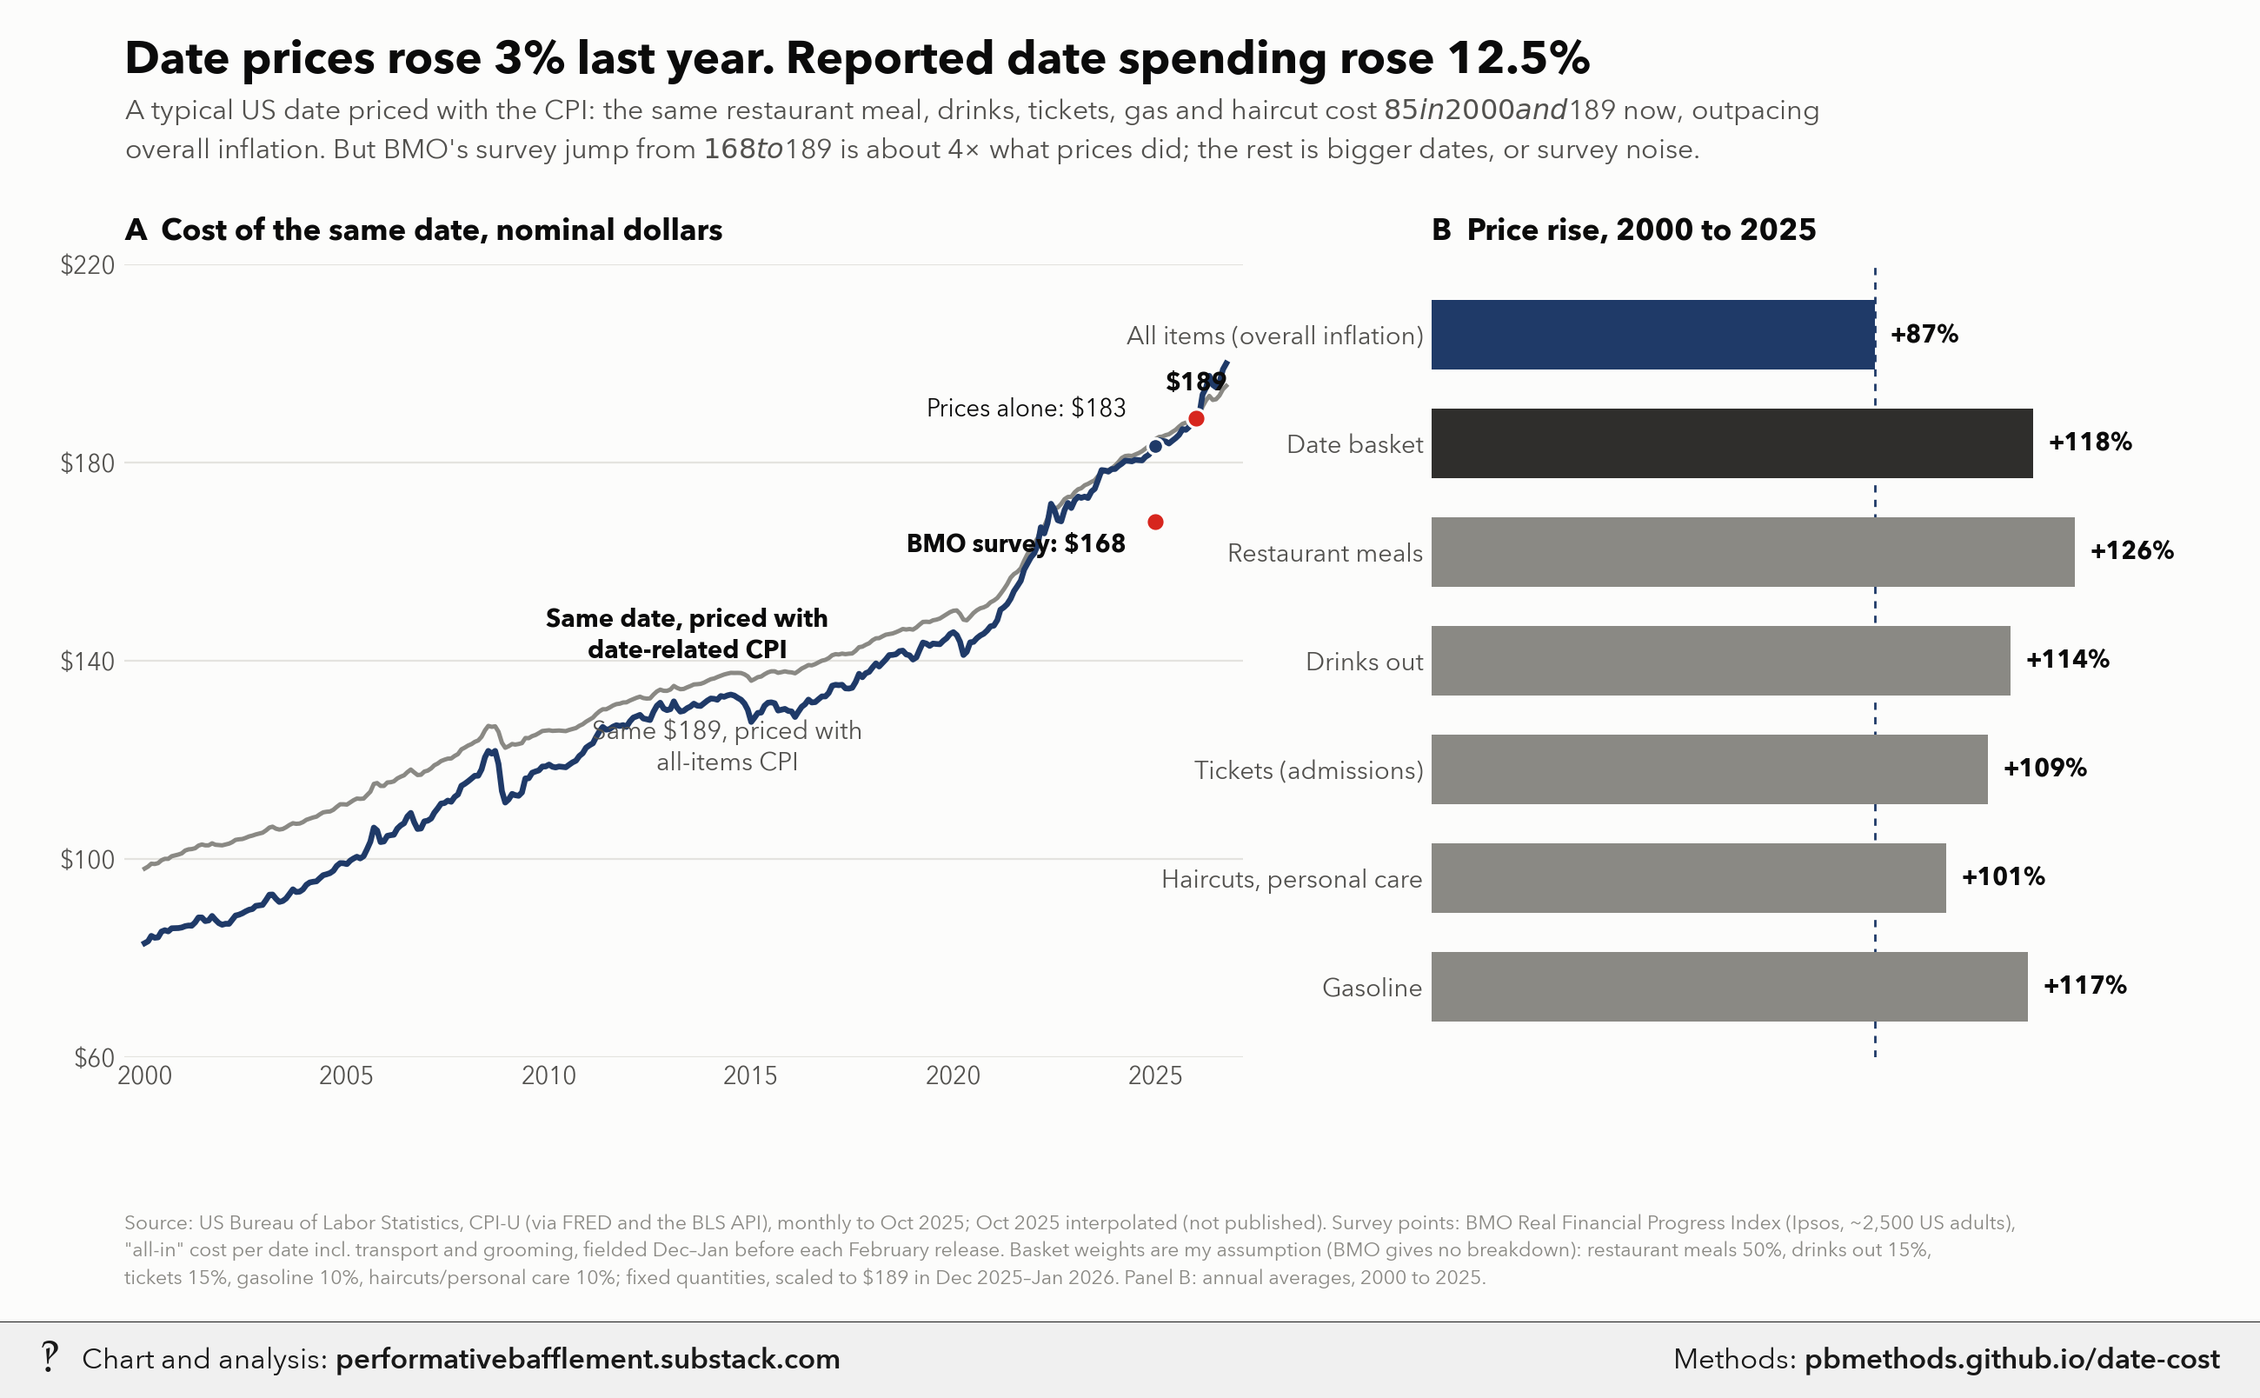
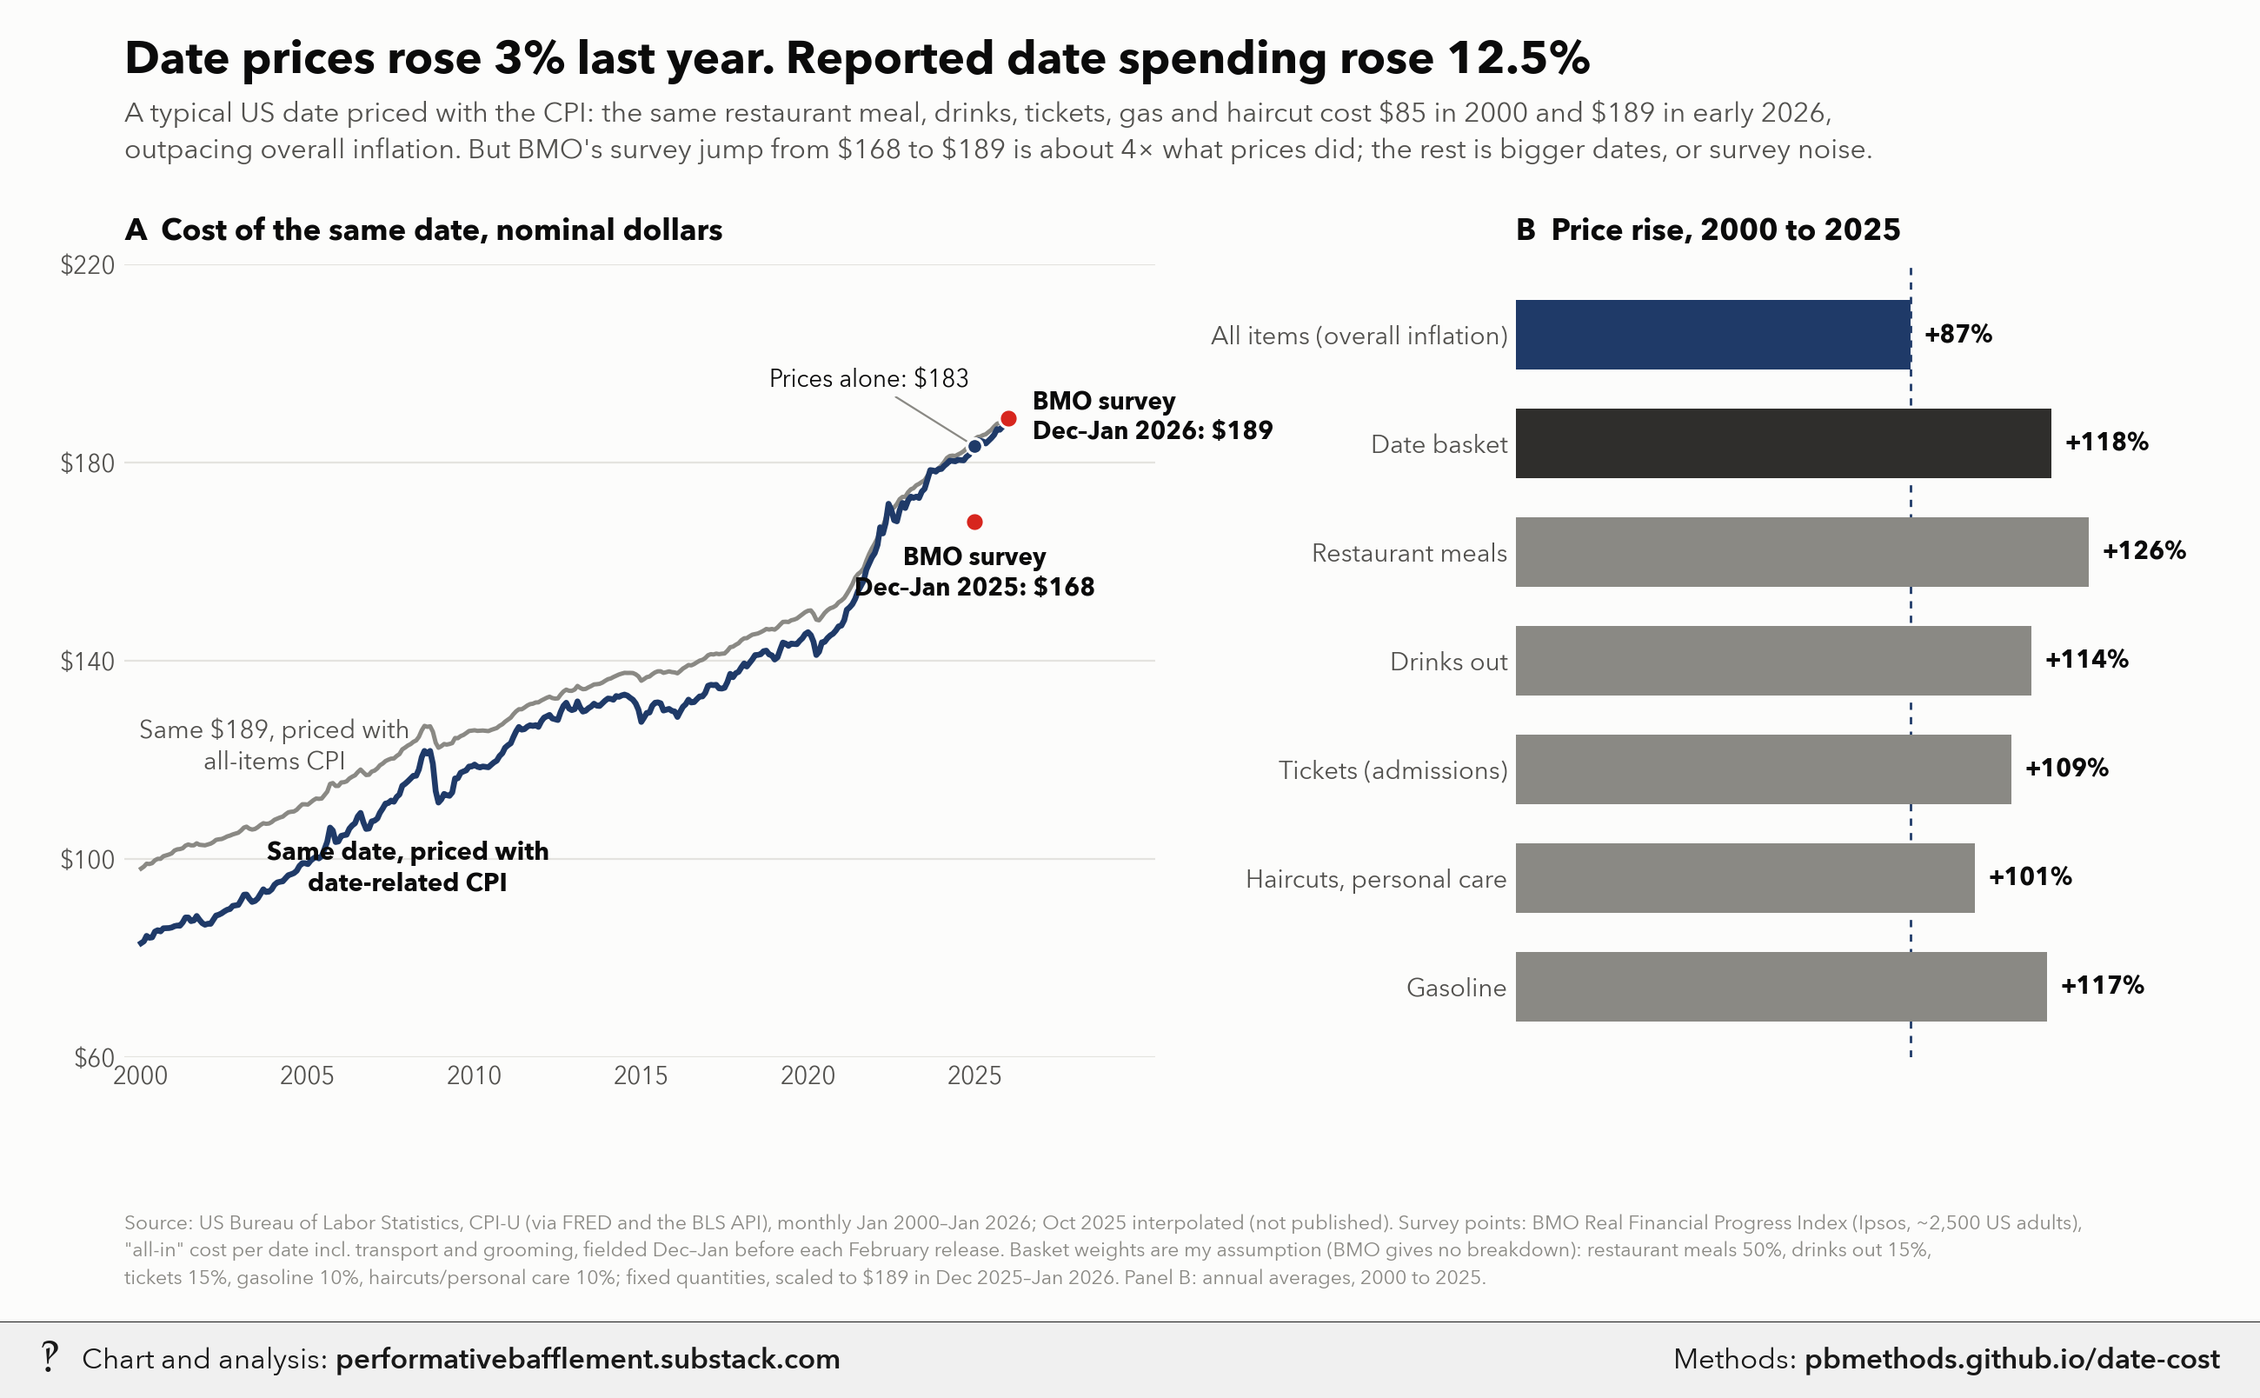
Update date-cost

diff --git a/date-cost/index.html b/date-cost/index.html
@@ -47,6 +47,7 @@ Data (CPI-U, US city average, monthly; local copies under notebooks/us_public_da
   - Personal care services (haircuts etc.)  CUUR0000SEGC (FRED, not seasonally adjusted)  weight 10%
   - All items                     CPIAUCSL      (FRED, seasonally adjusted)   comparison line
   BLS published no October 2025 CPI (federal shutdown); that month is linearly interpolated.
+  The lines run Jan 2000 to Jan 2026, ending at BMO's latest field period.
 
 Method:
   - Fixed-quantity (Laspeyres) basket. The weights are spending shares at BMO's 2026 field period (mean of Dec 2025
@@ -160,6 +161,7 @@ Data (CPI-U, US city average, monthly; local copies under notebooks/us_public_da
   - Personal care services (haircuts etc.)  CUUR0000SEGC (FRED, not seasonally adjusted)  weight 10%
   - All items                     CPIAUCSL      (FRED, seasonally adjusted)   comparison line
   BLS published no October 2025 CPI (federal shutdown); that month is linearly interpolated.
+  The lines run Jan 2000 to Jan 2026, ending at BMO's latest field period.
 
 Method:
   - Fixed-quantity (Laspeyres) basket. The weights are spending shares at BMO's 2026 field period (mean of Dec 2025
@@ -195,6 +197,7 @@ sys.path.insert(0, str(Path.home() / &quot;_watermark&quot;))
 import pb_style as pb  # noqa: E402
 
 pb.apply()
+plt.rcParams[&quot;text.parse_math&quot;] = False  # dollar signs are literal
 INK, INK2, MUTED = pb.INK, pb.INK2, pb.MUTED
 
 SERIES = {  # key: (file, label, weight)
@@ -208,10 +211,10 @@ ALL = &quot;fred/CPIAUCSL.csv&quot;
 BMO_2025, BMO_2026 = 168, 189
 W25 = (&quot;2024-12-01&quot;, &quot;2025-01-01&quot;)  # BMO 2025 field period, Dec 23 2024 - Jan 20 2025
 W26 = (&quot;2025-12-01&quot;, &quot;2026-01-01&quot;)  # BMO 2026 field period, Dec 29 2025 - Jan 27 2026
-START = &quot;2000-01-01&quot;
+START, END = &quot;2000-01-01&quot;, &quot;2026-01-01&quot;  # end at BMO's 2026 field period
 
 FOOTNOTE = (
-    &quot;Source: US Bureau of Labor Statistics, CPI-U (via FRED and the BLS API), monthly to Oct 2025; Oct 2025 interpolated &quot;
+    &quot;Source: US Bureau of Labor Statistics, CPI-U (via FRED and the BLS API), monthly Jan 2000–Jan 2026; Oct 2025 interpolated &quot;
     &quot;(not published). Survey points: BMO Real Financial Progress Index (Ipsos, ~2,500 US adults),\n\&quot;all-in\&quot; cost per &quot;
     &quot;date incl. transport and grooming, fielded Dec–Jan before each February release. Basket weights are my assumption &quot;
     &quot;(BMO gives no breakdown): restaurant meals 50%, drinks out 15%,\ntickets 15%, gasoline 10%, haircuts/personal care &quot;
@@ -226,7 +229,7 @@ def load(rel):
 
 def build():
     d = pd.concat({k: load(v[0]) for k, v in SERIES.items()} | {&quot;all&quot;: load(ALL)}, axis=1)
-    d = d[START:].dropna(how=&quot;all&quot;)
+    d = d[START:END].dropna(how=&quot;all&quot;)
     full = pd.date_range(d.index.min(), d.index.max(), freq=&quot;MS&quot;)
     d = d.reindex(full).interpolate(limit_area=&quot;inside&quot;).dropna()
     base = d.loc[W26[0]:W26[1]].mean()
@@ -253,37 +256,40 @@ def main():
     print(growth.round(1))
 
     fig = plt.figure(figsize=(13, 7.6))
-    gs = fig.add_gridspec(1, 2, left=0.055, right=0.975, top=0.80, bottom=0.2, wspace=0.2, width_ratios=[1.45, 1])
+    gs = fig.add_gridspec(1, 2, left=0.055, right=0.975, top=0.80, bottom=0.2, wspace=0.42, width_ratios=[1.5, 1])
     a, c = fig.add_subplot(gs[0]), fig.add_subplot(gs[1])
 
     fig.text(0.055, 0.945, f&quot;Date prices rose {price_chg:.0%} last year. Reported date spending rose {bmo_chg:.1%}&quot;,
              fontsize=19, fontweight=&quot;bold&quot;, ha=&quot;left&quot;)
     fig.text(0.055, 0.88, f&quot;A typical US date priced with the CPI: the same restaurant meal, drinks, tickets, gas and &quot;
-             f&quot;haircut cost ${b2000:.0f} in 2000 and ${BMO_2026} now, outpacing\noverall inflation. But BMO's survey &quot;
+             f&quot;haircut cost ${b2000:.0f} in 2000 and ${BMO_2026} in early 2026,\noutpacing overall inflation. But BMO's survey &quot;
              f&quot;jump from ${BMO_2025} to ${BMO_2026} is about {bmo_chg / price_chg:.0f}× what prices did; the rest is &quot;
              f&quot;bigger dates, or survey noise.&quot;, fontsize=11.5, color=INK2, ha=&quot;left&quot;, linespacing=1.4)
 
     # A: basket over time vs all-items, with BMO points
     a.plot(allitems.index, allitems, color=pb.GRAYS[0], lw=1.8, zorder=2)
     a.plot(basket.index, basket, color=pb.NAVY, lw=2.4, zorder=3)
-    a.text(pd.Timestamp(&quot;2013-06-01&quot;), basket.loc[&quot;2013-06-01&quot;] + 9, &quot;Same date, priced with\ndate-related CPI&quot;,
-           fontsize=10.5, fontweight=&quot;bold&quot;, color=INK, ha=&quot;center&quot;, va=&quot;bottom&quot;, linespacing=1.3)
-    a.text(pd.Timestamp(&quot;2014-06-01&quot;), allitems.loc[&quot;2014-06-01&quot;] - 9, &quot;Same $189, priced with\nall-items CPI&quot;,
-           fontsize=10.5, color=INK2, ha=&quot;center&quot;, va=&quot;top&quot;, linespacing=1.3)
+    a.text(pd.Timestamp(&quot;2008-01-01&quot;), basket.loc[&quot;2008-01-01&quot;] - 12, &quot;Same date, priced with\ndate-related CPI&quot;,
+           fontsize=10.5, fontweight=&quot;bold&quot;, color=INK, ha=&quot;center&quot;, va=&quot;top&quot;, linespacing=1.3)
+    a.text(pd.Timestamp(&quot;2004-01-01&quot;), allitems.loc[&quot;2004-01-01&quot;] + 9, &quot;Same $189, priced with\nall-items CPI&quot;,
+           fontsize=10.5, color=INK2, ha=&quot;center&quot;, va=&quot;bottom&quot;, linespacing=1.3)
     t25, t26 = pd.Timestamp(&quot;2025-01-01&quot;), pd.Timestamp(&quot;2026-01-01&quot;)
     a.scatter([t25], [implied25], s=42, color=pb.NAVY, edgecolor=pb.SURFACE, lw=1.2, zorder=5)
     a.scatter([t25, t26], [BMO_2025, BMO_2026], s=60, color=pb.RED, edgecolor=pb.SURFACE, lw=1.2, zorder=6)
-    a.annotate(f&quot;Prices alone: ${implied25:.0f}&quot;, (t25, implied25), xytext=(-12, 10), textcoords=&quot;offset points&quot;,
-               ha=&quot;right&quot;, va=&quot;bottom&quot;, fontsize=10, color=INK)
-    a.annotate(f&quot;BMO survey: ${BMO_2025}&quot;, (t25, BMO_2025), xytext=(-12, -4), textcoords=&quot;offset points&quot;,
-               ha=&quot;right&quot;, va=&quot;top&quot;, fontsize=10, fontweight=&quot;bold&quot;, color=INK)
-    a.annotate(f&quot;${BMO_2026}&quot;, (t26, BMO_2026), xytext=(0, 9), textcoords=&quot;offset points&quot;,
-               ha=&quot;center&quot;, va=&quot;bottom&quot;, fontsize=10, fontweight=&quot;bold&quot;, color=INK)
-    a.set_xlim(pd.Timestamp(&quot;1999-07-01&quot;), pd.Timestamp(&quot;2027-03-01&quot;))
+    box = dict(boxstyle=&quot;square,pad=0.15&quot;, fc=pb.SURFACE, ec=&quot;none&quot;)
+    a.annotate(f&quot;Prices alone: ${implied25:.0f}&quot;, (t25, implied25), xytext=(-2, 22), textcoords=&quot;offset points&quot;,
+               ha=&quot;right&quot;, va=&quot;bottom&quot;, fontsize=10, color=INK, bbox=box,
+               arrowprops=dict(arrowstyle=&quot;-&quot;, color=MUTED, lw=0.8, shrinkA=0, shrinkB=4))
+    a.annotate(f&quot;BMO survey\nDec–Jan 2025: ${BMO_2025}&quot;, (t25, BMO_2025), xytext=(0, -10), textcoords=&quot;offset points&quot;,
+               ha=&quot;center&quot;, va=&quot;top&quot;, fontsize=10, fontweight=&quot;bold&quot;, color=INK, linespacing=1.25)
+    a.annotate(f&quot;BMO survey\nDec–Jan 2026: ${BMO_2026}&quot;, (t26, BMO_2026), xytext=(10, 0), textcoords=&quot;offset points&quot;,
+               ha=&quot;left&quot;, va=&quot;center&quot;, fontsize=10, fontweight=&quot;bold&quot;, color=INK, linespacing=1.25)
+    a.set_xlim(pd.Timestamp(&quot;1999-07-01&quot;), pd.Timestamp(&quot;2030-06-01&quot;))
+    a.spines[&quot;bottom&quot;].set_bounds(mdates.date2num(pd.Timestamp(&quot;1999-07-01&quot;)), mdates.date2num(t26))
     a.set_ylim(60, 220)
     a.set_yticks(range(60, 221, 40))
     a.set_yticklabels([f&quot;${v}&quot; for v in range(60, 221, 40)])
-    a.xaxis.set_major_locator(mdates.YearLocator(5))
+    a.set_xticks([pd.Timestamp(f&quot;{y}-01-01&quot;) for y in range(2000, 2026, 5)])
     a.xaxis.set_major_formatter(mdates.DateFormatter(&quot;%Y&quot;))
     a.set_title(&quot;A  Cost of the same date, nominal dollars&quot;, loc=&quot;left&quot;, fontsize=12.5, fontweight=&quot;bold&quot;, pad=10)
     a.grid(axis=&quot;x&quot;, visible=False)

diff --git a/date-cost/methods.md b/date-cost/methods.md
@@ -29,6 +29,7 @@ Data (CPI-U, US city average, monthly; local copies under notebooks/us_public_da
   - Personal care services (haircuts etc.)  CUUR0000SEGC (FRED, not seasonally adjusted)  weight 10%
   - All items                     CPIAUCSL      (FRED, seasonally adjusted)   comparison line
   BLS published no October 2025 CPI (federal shutdown); that month is linearly interpolated.
+  The lines run Jan 2000 to Jan 2026, ending at BMO's latest field period.
 
 Method:
   - Fixed-quantity (Laspeyres) basket. The weights are spending shares at BMO's 2026 field period (mean of Dec 2025
@@ -117,6 +118,7 @@ Data (CPI-U, US city average, monthly; local copies under notebooks/us_public_da
   - Personal care services (haircuts etc.)  CUUR0000SEGC (FRED, not seasonally adjusted)  weight 10%
   - All items                     CPIAUCSL      (FRED, seasonally adjusted)   comparison line
   BLS published no October 2025 CPI (federal shutdown); that month is linearly interpolated.
+  The lines run Jan 2000 to Jan 2026, ending at BMO's latest field period.
 
 Method:
   - Fixed-quantity (Laspeyres) basket. The weights are spending shares at BMO's 2026 field period (mean of Dec 2025
@@ -152,6 +154,7 @@ sys.path.insert(0, str(Path.home() / "_watermark"))
 import pb_style as pb  # noqa: E402
 
 pb.apply()
+plt.rcParams["text.parse_math"] = False  # dollar signs are literal
 INK, INK2, MUTED = pb.INK, pb.INK2, pb.MUTED
 
 SERIES = {  # key: (file, label, weight)
@@ -165,10 +168,10 @@ ALL = "fred/CPIAUCSL.csv"
 BMO_2025, BMO_2026 = 168, 189
 W25 = ("2024-12-01", "2025-01-01")  # BMO 2025 field period, Dec 23 2024 - Jan 20 2025
 W26 = ("2025-12-01", "2026-01-01")  # BMO 2026 field period, Dec 29 2025 - Jan 27 2026
-START = "2000-01-01"
+START, END = "2000-01-01", "2026-01-01"  # end at BMO's 2026 field period
 
 FOOTNOTE = (
-    "Source: US Bureau of Labor Statistics, CPI-U (via FRED and the BLS API), monthly to Oct 2025; Oct 2025 interpolated "
+    "Source: US Bureau of Labor Statistics, CPI-U (via FRED and the BLS API), monthly Jan 2000–Jan 2026; Oct 2025 interpolated "
     "(not published). Survey points: BMO Real Financial Progress Index (Ipsos, ~2,500 US adults),\n\"all-in\" cost per "
     "date incl. transport and grooming, fielded Dec–Jan before each February release. Basket weights are my assumption "
     "(BMO gives no breakdown): restaurant meals 50%, drinks out 15%,\ntickets 15%, gasoline 10%, haircuts/personal care "
@@ -183,7 +186,7 @@ def load(rel):
 
 def build():
     d = pd.concat({k: load(v[0]) for k, v in SERIES.items()} | {"all": load(ALL)}, axis=1)
-    d = d[START:].dropna(how="all")
+    d = d[START:END].dropna(how="all")
     full = pd.date_range(d.index.min(), d.index.max(), freq="MS")
     d = d.reindex(full).interpolate(limit_area="inside").dropna()
     base = d.loc[W26[0]:W26[1]].mean()
@@ -210,37 +213,40 @@ def main():
     print(growth.round(1))
 
     fig = plt.figure(figsize=(13, 7.6))
-    gs = fig.add_gridspec(1, 2, left=0.055, right=0.975, top=0.80, bottom=0.2, wspace=0.2, width_ratios=[1.45, 1])
+    gs = fig.add_gridspec(1, 2, left=0.055, right=0.975, top=0.80, bottom=0.2, wspace=0.42, width_ratios=[1.5, 1])
     a, c = fig.add_subplot(gs[0]), fig.add_subplot(gs[1])
 
     fig.text(0.055, 0.945, f"Date prices rose {price_chg:.0%} last year. Reported date spending rose {bmo_chg:.1%}",
              fontsize=19, fontweight="bold", ha="left")
     fig.text(0.055, 0.88, f"A typical US date priced with the CPI: the same restaurant meal, drinks, tickets, gas and "
-             f"haircut cost ${b2000:.0f} in 2000 and ${BMO_2026} now, outpacing\noverall inflation. But BMO's survey "
+             f"haircut cost ${b2000:.0f} in 2000 and ${BMO_2026} in early 2026,\noutpacing overall inflation. But BMO's survey "
              f"jump from ${BMO_2025} to ${BMO_2026} is about {bmo_chg / price_chg:.0f}× what prices did; the rest is "
              f"bigger dates, or survey noise.", fontsize=11.5, color=INK2, ha="left", linespacing=1.4)
 
     # A: basket over time vs all-items, with BMO points
     a.plot(allitems.index, allitems, color=pb.GRAYS[0], lw=1.8, zorder=2)
     a.plot(basket.index, basket, color=pb.NAVY, lw=2.4, zorder=3)
-    a.text(pd.Timestamp("2013-06-01"), basket.loc["2013-06-01"] + 9, "Same date, priced with\ndate-related CPI",
-           fontsize=10.5, fontweight="bold", color=INK, ha="center", va="bottom", linespacing=1.3)
-    a.text(pd.Timestamp("2014-06-01"), allitems.loc["2014-06-01"] - 9, "Same $189, priced with\nall-items CPI",
-           fontsize=10.5, color=INK2, ha="center", va="top", linespacing=1.3)
+    a.text(pd.Timestamp("2008-01-01"), basket.loc["2008-01-01"] - 12, "Same date, priced with\ndate-related CPI",
+           fontsize=10.5, fontweight="bold", color=INK, ha="center", va="top", linespacing=1.3)
+    a.text(pd.Timestamp("2004-01-01"), allitems.loc["2004-01-01"] + 9, "Same $189, priced with\nall-items CPI",
+           fontsize=10.5, color=INK2, ha="center", va="bottom", linespacing=1.3)
     t25, t26 = pd.Timestamp("2025-01-01"), pd.Timestamp("2026-01-01")
     a.scatter([t25], [implied25], s=42, color=pb.NAVY, edgecolor=pb.SURFACE, lw=1.2, zorder=5)
     a.scatter([t25, t26], [BMO_2025, BMO_2026], s=60, color=pb.RED, edgecolor=pb.SURFACE, lw=1.2, zorder=6)
-    a.annotate(f"Prices alone: ${implied25:.0f}", (t25, implied25), xytext=(-12, 10), textcoords="offset points",
-               ha="right", va="bottom", fontsize=10, color=INK)
-    a.annotate(f"BMO survey: ${BMO_2025}", (t25, BMO_2025), xytext=(-12, -4), textcoords="offset points",
-               ha="right", va="top", fontsize=10, fontweight="bold", color=INK)
-    a.annotate(f"${BMO_2026}", (t26, BMO_2026), xytext=(0, 9), textcoords="offset points",
-               ha="center", va="bottom", fontsize=10, fontweight="bold", color=INK)
-    a.set_xlim(pd.Timestamp("1999-07-01"), pd.Timestamp("2027-03-01"))
+    box = dict(boxstyle="square,pad=0.15", fc=pb.SURFACE, ec="none")
+    a.annotate(f"Prices alone: ${implied25:.0f}", (t25, implied25), xytext=(-2, 22), textcoords="offset points",
+               ha="right", va="bottom", fontsize=10, color=INK, bbox=box,
+               arrowprops=dict(arrowstyle="-", color=MUTED, lw=0.8, shrinkA=0, shrinkB=4))
+    a.annotate(f"BMO survey\nDec–Jan 2025: ${BMO_2025}", (t25, BMO_2025), xytext=(0, -10), textcoords="offset points",
+               ha="center", va="top", fontsize=10, fontweight="bold", color=INK, linespacing=1.25)
+    a.annotate(f"BMO survey\nDec–Jan 2026: ${BMO_2026}", (t26, BMO_2026), xytext=(10, 0), textcoords="offset points",
+               ha="left", va="center", fontsize=10, fontweight="bold", color=INK, linespacing=1.25)
+    a.set_xlim(pd.Timestamp("1999-07-01"), pd.Timestamp("2030-06-01"))
+    a.spines["bottom"].set_bounds(mdates.date2num(pd.Timestamp("1999-07-01")), mdates.date2num(t26))
     a.set_ylim(60, 220)
     a.set_yticks(range(60, 221, 40))
     a.set_yticklabels([f"${v}" for v in range(60, 221, 40)])
-    a.xaxis.set_major_locator(mdates.YearLocator(5))
+    a.set_xticks([pd.Timestamp(f"{y}-01-01") for y in range(2000, 2026, 5)])
     a.xaxis.set_major_formatter(mdates.DateFormatter("%Y"))
     a.set_title("A  Cost of the same date, nominal dollars", loc="left", fontsize=12.5, fontweight="bold", pad=10)
     a.grid(axis="x", visible=False)
